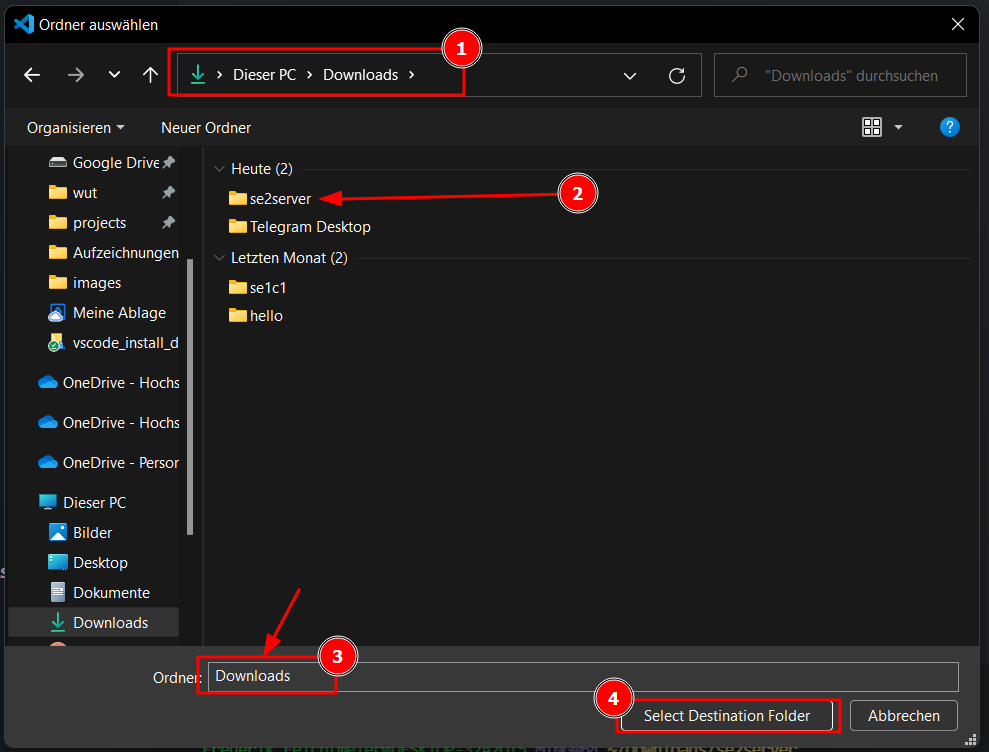
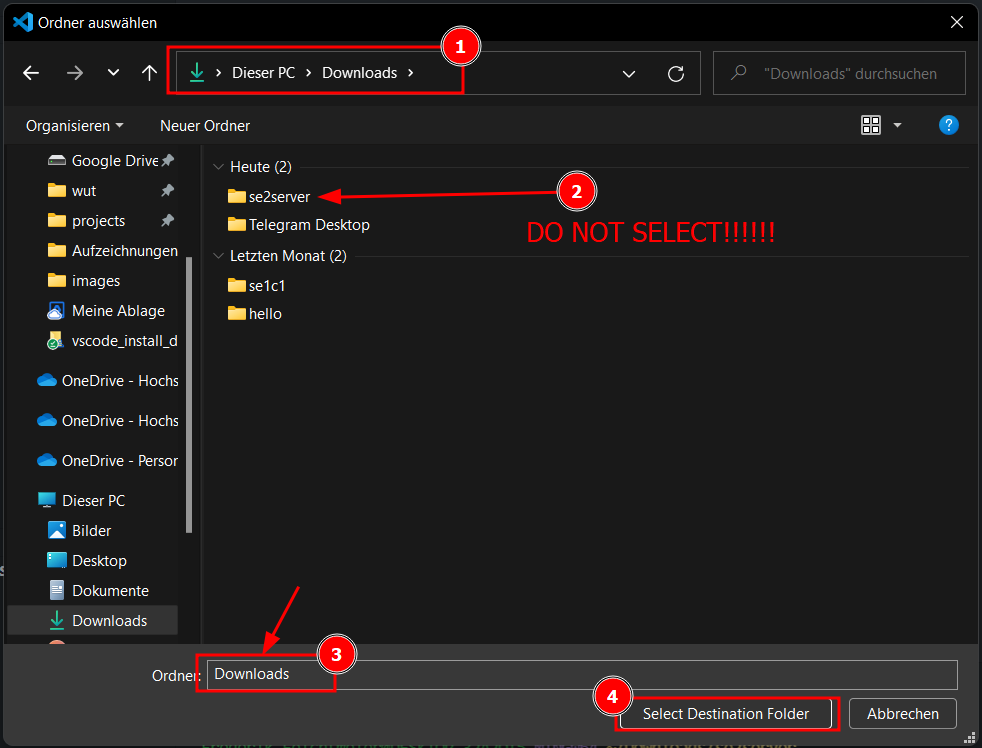
update vscode readme

diff --git a/README_vscode.md b/README_vscode.md
@@ -469,27 +469,47 @@ For our very simple application stack we already set up a mariadb via xampp and 
 
 ### 4.1.2. Create maven project with archetype
 
-This time we create the maven project without the spring boot initializr but with the archtetype `javafx-archetype-fxml` from `org.openjfx`
+This time we create the maven project without the spring boot initializr but with the archtetype `javafx-archetype-fxml` from `org.openjfx`. Expand the **JAVA PROJECTS** section in the left panel and click on the **+**-Symbol:
 
 ![](images/client_vs_code_01.png)
 
+Click on Maven or use your keyboard (cursor down -> enter):
+
 ![](images/client_vs_code_02.png)
+
+Select **More...**:
 
 ![](images/client_vs_code_03.png)
 
+Type `org.openjfx` which filtes the results, select `java-fx-archetype-fxml`:
+
 ![](images/client_vs_code_04.png)
+
+Select the most recent version - at the time this tutorial was made it was `0.0.6`:
 
 ![](images/client_vs_code_05.png)
 
+Enter `org.hsd.inflab` as your group id and press enter:
+
 ![](images/client_vs_code_06.png)
+
+Enter `se2fxclient` as your artifact id:
 
 ![](images/client_vs_code_07.png)
 
+Select any directory but DO NOT select your se2server directory!!!:
+
 ![](images/client_vs_code_08.png)
+
+Just press enter for the property 'version':
 
 ![](images/client_vs_code_09.png)
 
+Type in **Y** and press enter:
+
 ![](images/client_vs_code_10.png)
+
+Click on **Open** which opens the client project in a new vscode window, keep both vscode windows opened:
 
 ![](images/client_vs_code_11.png)
 
